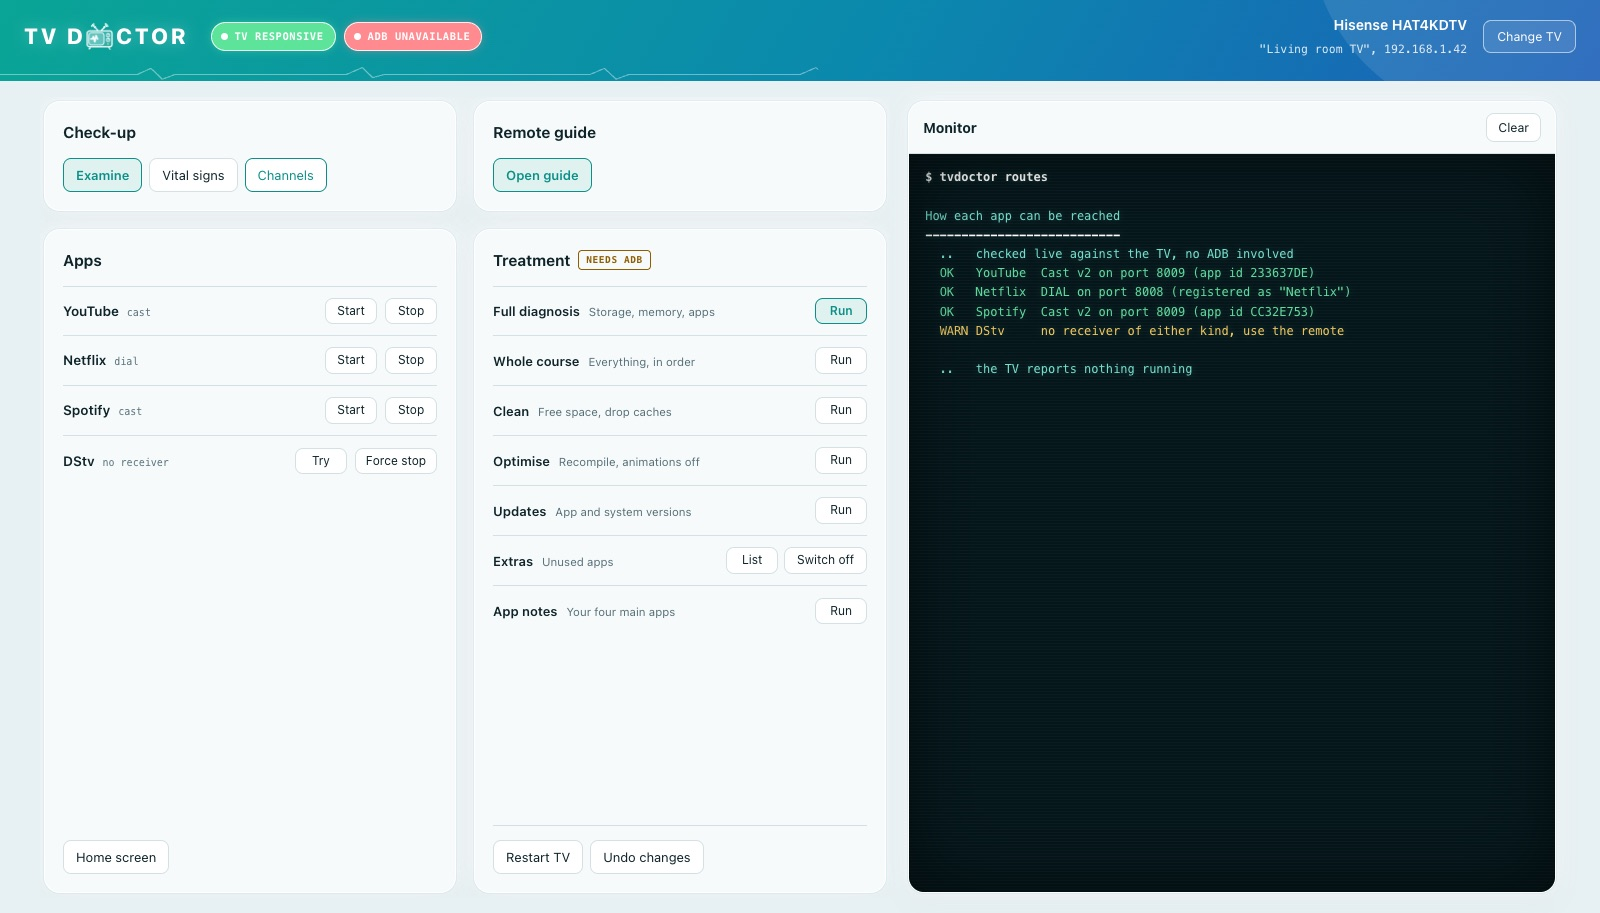
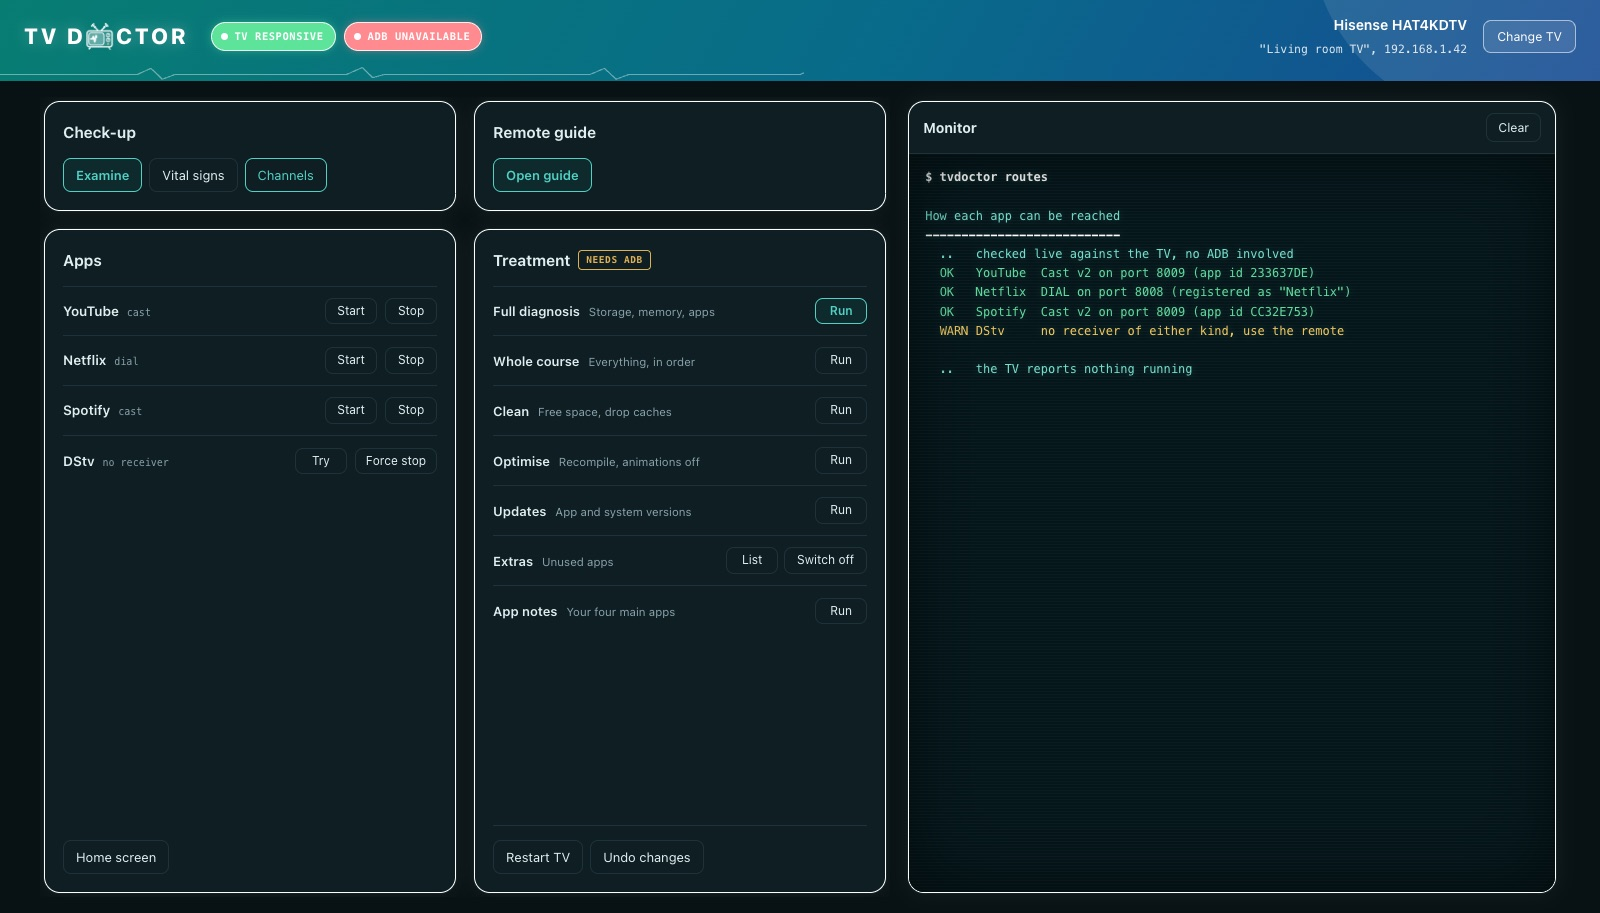
TV Doctor page: dark mode screenshots
Retaken in the app's dark theme to match the site. The dark-mode tab
becomes Vital signs, since every shot is dark now.

diff --git a/src/app/projects/tv-doctor/page.tsx b/src/app/projects/tv-doctor/page.tsx
@@ -464,7 +464,7 @@ fn actions() -> HashMap<&'static str, Vec<&'static str>> {
           <ScreenshotTabs shots={[
             { label: 'Channels', src: img('platform-routes'), alt: 'The platform after Channels, with the routes output', caption: 'routes, checked live: YouTube and Spotify over Cast v2 on 8009, Netflix over DIAL on 8008, DStv unreachable' },
             { label: 'Remote guide', src: img('platform-guide'), alt: 'The platform showing the remote guide', caption: '"Clear cache, not Clear data. Clear data signs you out of the app." WARN lines print in amber' },
-            { label: 'Dark mode', src: img('platform-dark-status'), alt: 'The platform in dark mode after Vital signs', caption: 'The same screen in macOS dark mode: status says awake yes, ADB reachable no' },
+            { label: 'Vital signs', src: img('platform-status'), alt: 'The platform after Vital signs, with the status output', caption: 'status: the remembered TV, awake yes, ADB reachable no' },
           ].map((s) => ({ ...s, url }))} />
 
           <p style={pStyle}>
